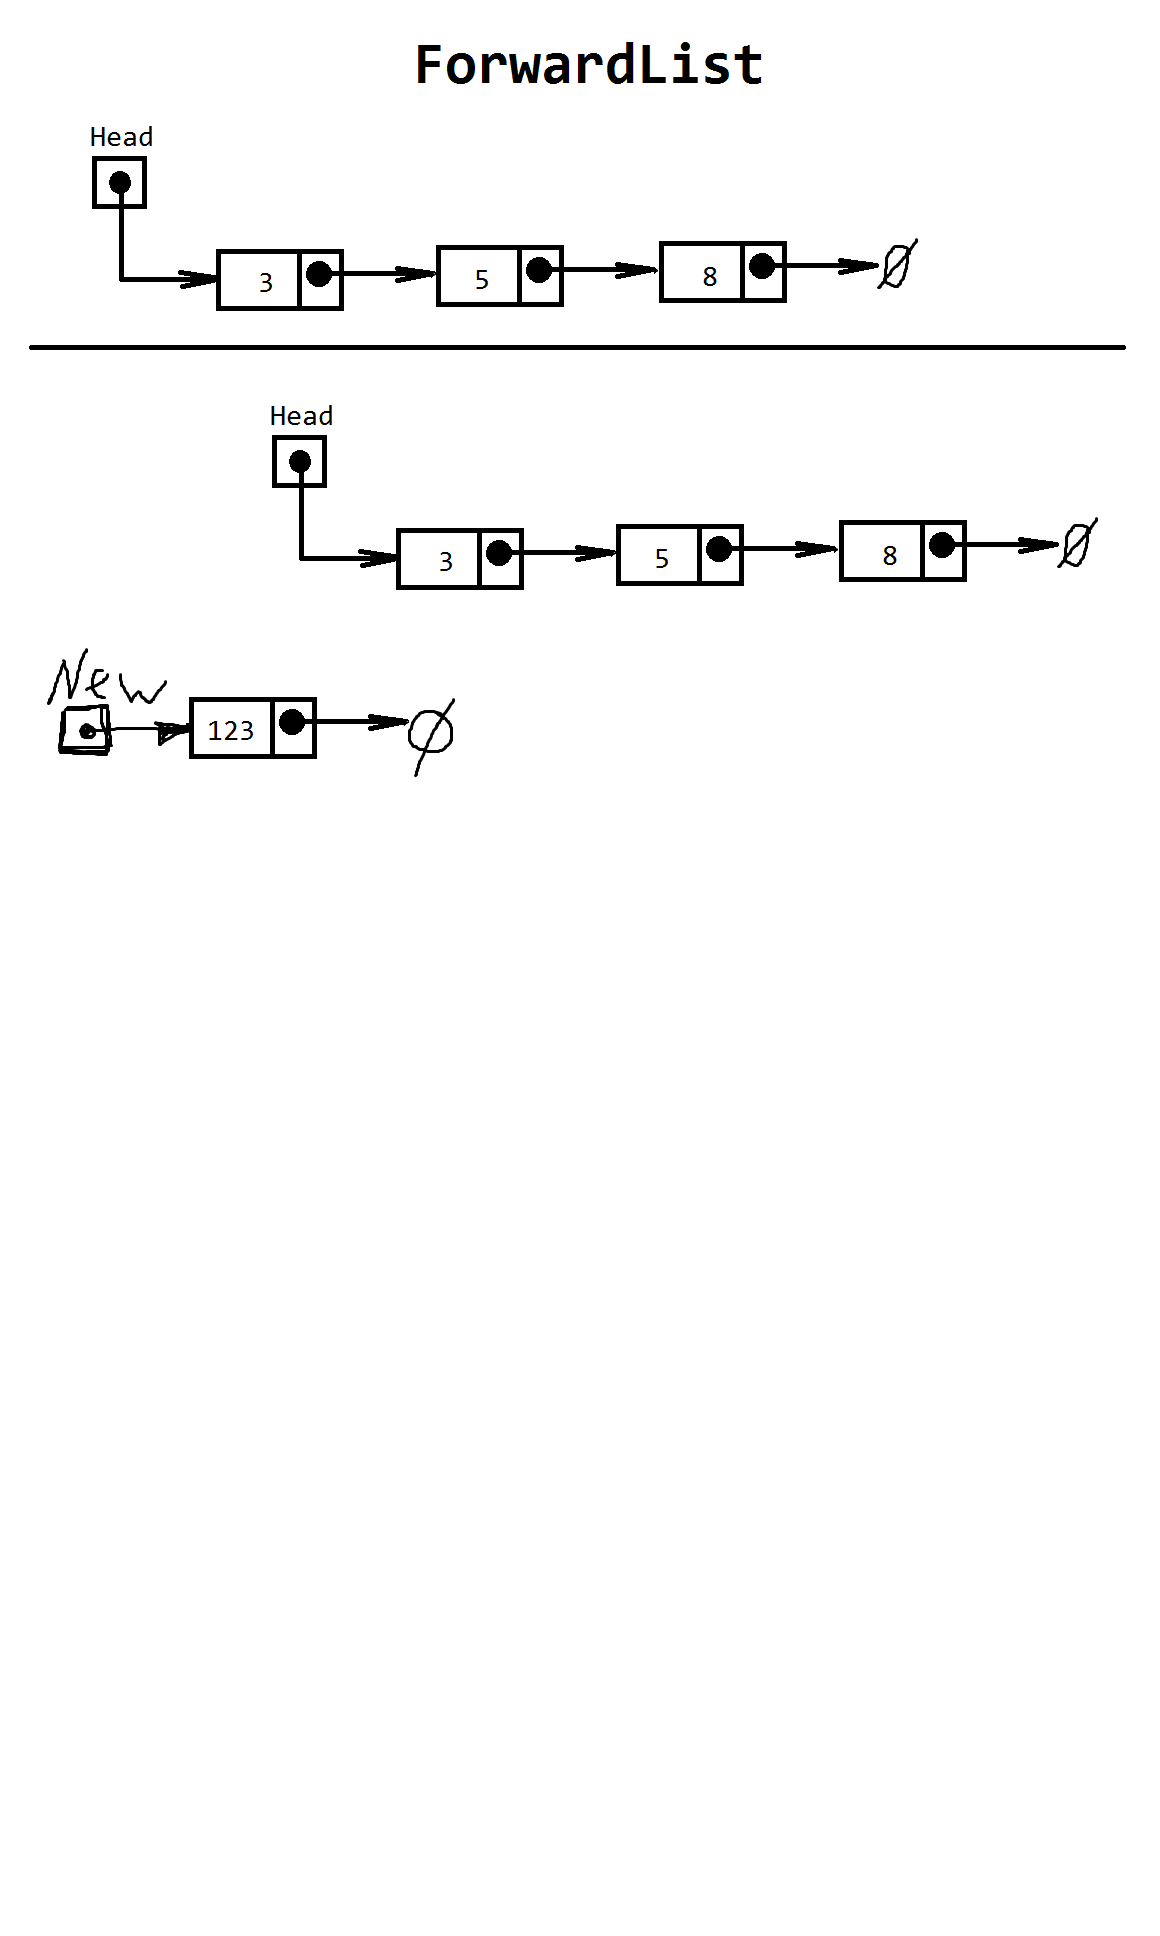
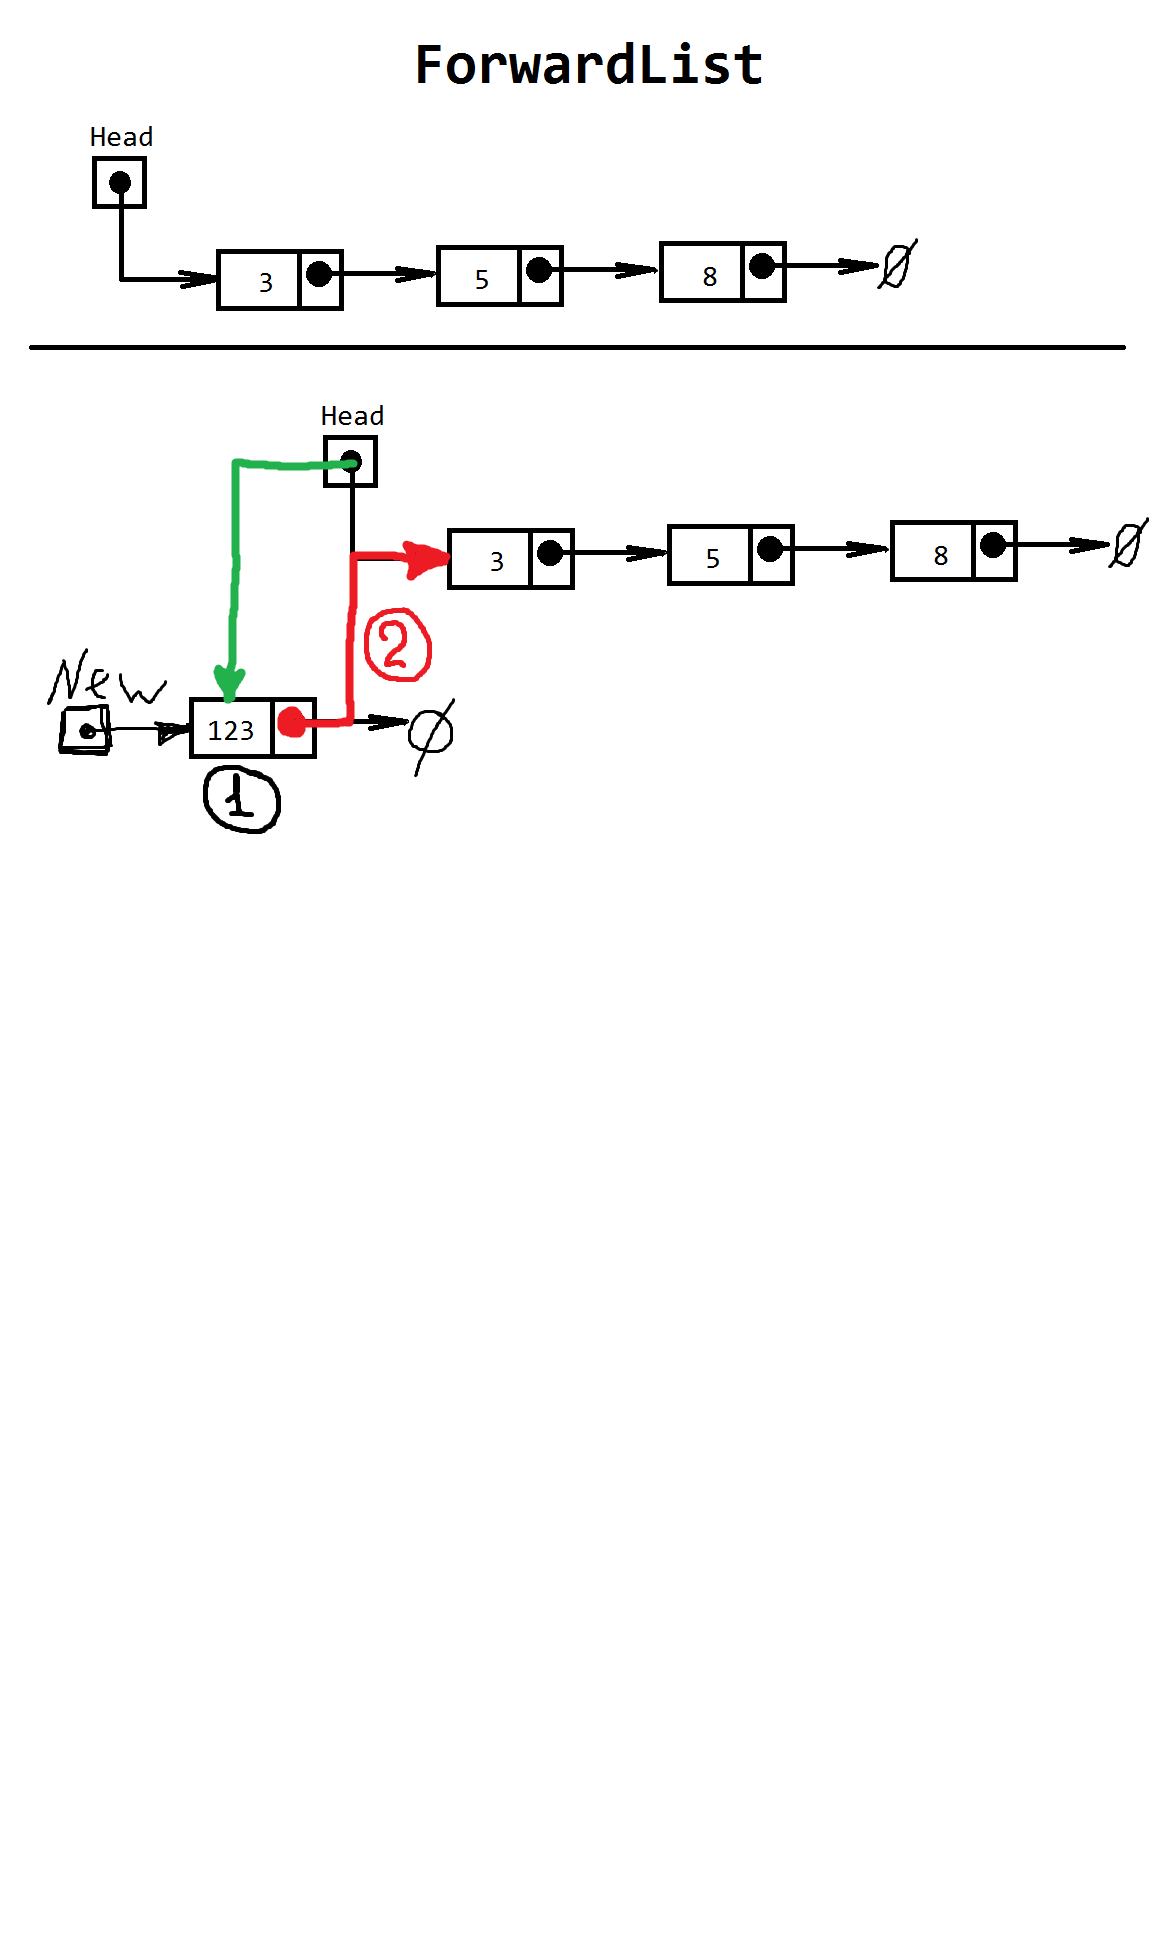
ForwardList task

Changed region(s): [[0.1552, 0.186, 0.9931, 0.4339]]

diff --git a/DataContainers/ForwardList/main.cpp b/DataContainers/ForwardList/main.cpp
@@ -10,7 +10,7 @@ class Element
 	int Data;		//Значение элемента
 	Element* pNext;	//Адрес следующего элементна
 public:
-	Element(int Data, Element* pNext) :Data(Data), pNext(pNext)
+	Element(int Data, Element* pNext = nullptr) :Data(Data), pNext(pNext)
 	{
 		cout << "EConstructor:\t" << this << endl;
 	}
@@ -18,6 +18,7 @@ public:
 	{
 		cout << "EDestructor:\t" << this << endl;
 	}
+	friend class ForwardList;
 };
 
 class ForwardList
@@ -39,12 +40,36 @@ public:
 	{
 		//1) Создаем новый элемент:
 		Element* New = new Element(Data);
+		//2) Присоединяем новый элемент к началу списка:
+		New->pNext = Head;
+		//3) Говорим, что новый элемент является головой списка:
+		Head = New;
+	}
 
+	//				Methods:
+	void print()const
+	{
+		Element* Temp = Head;	//Temp - это итератор.
+		//Итератор - это указатель, при помощи которого 
+		//можно получить доступ к элементам структуры данных.
+		while (Temp)
+		{
+			cout << Temp << tab << Temp->Data << tab << Temp->pNext << endl;
+			Temp = Temp->pNext;	//Переход на следующий элемент
+		}
 	}
 };
 
 void main()
 {
 	setlocale(LC_ALL, "");
-
+	int n;
+	cout << "Введите размер списка: "; cin >> n;
+	int arr[5];
+	ForwardList list;	//Односвязный список list
+	for (int i = 0; i < n; i++)
+	{
+		list.push_front(rand() % 100);
+	}
+	list.print();
 }
